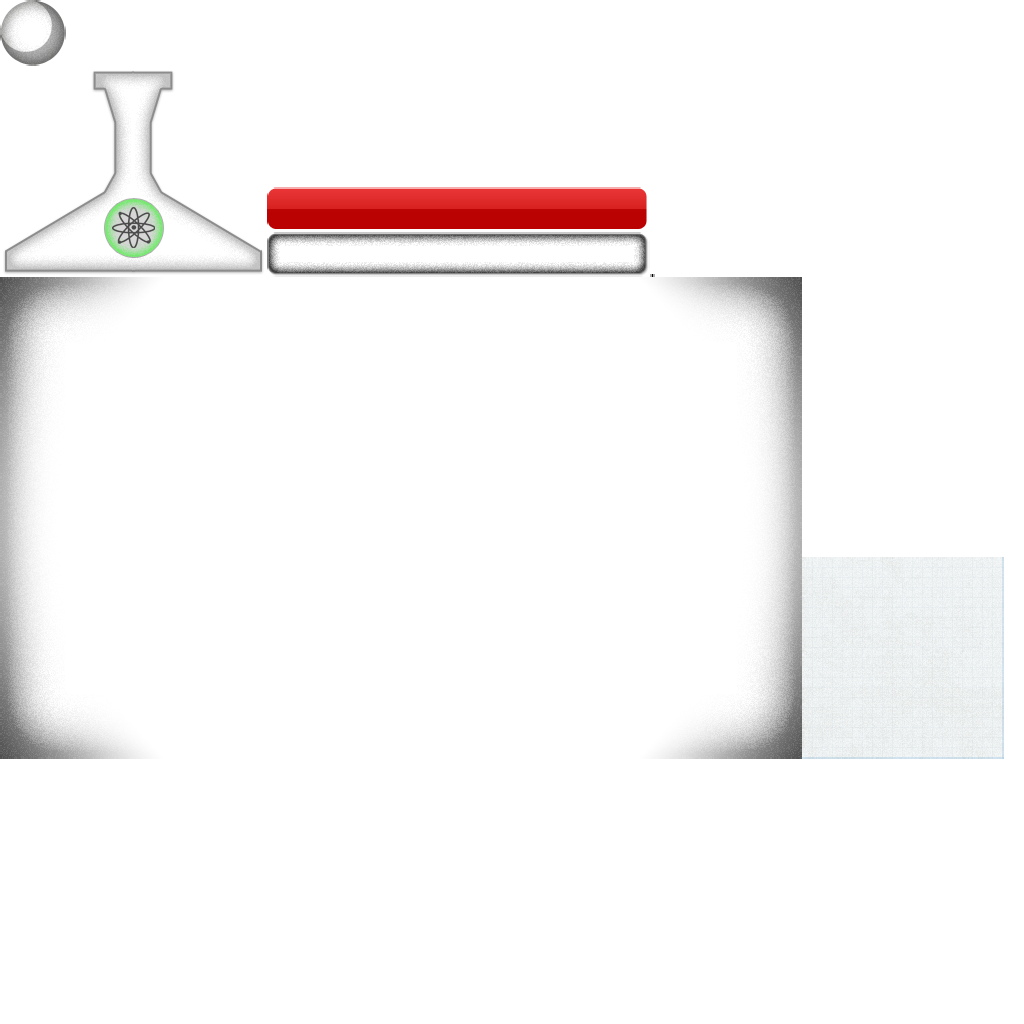
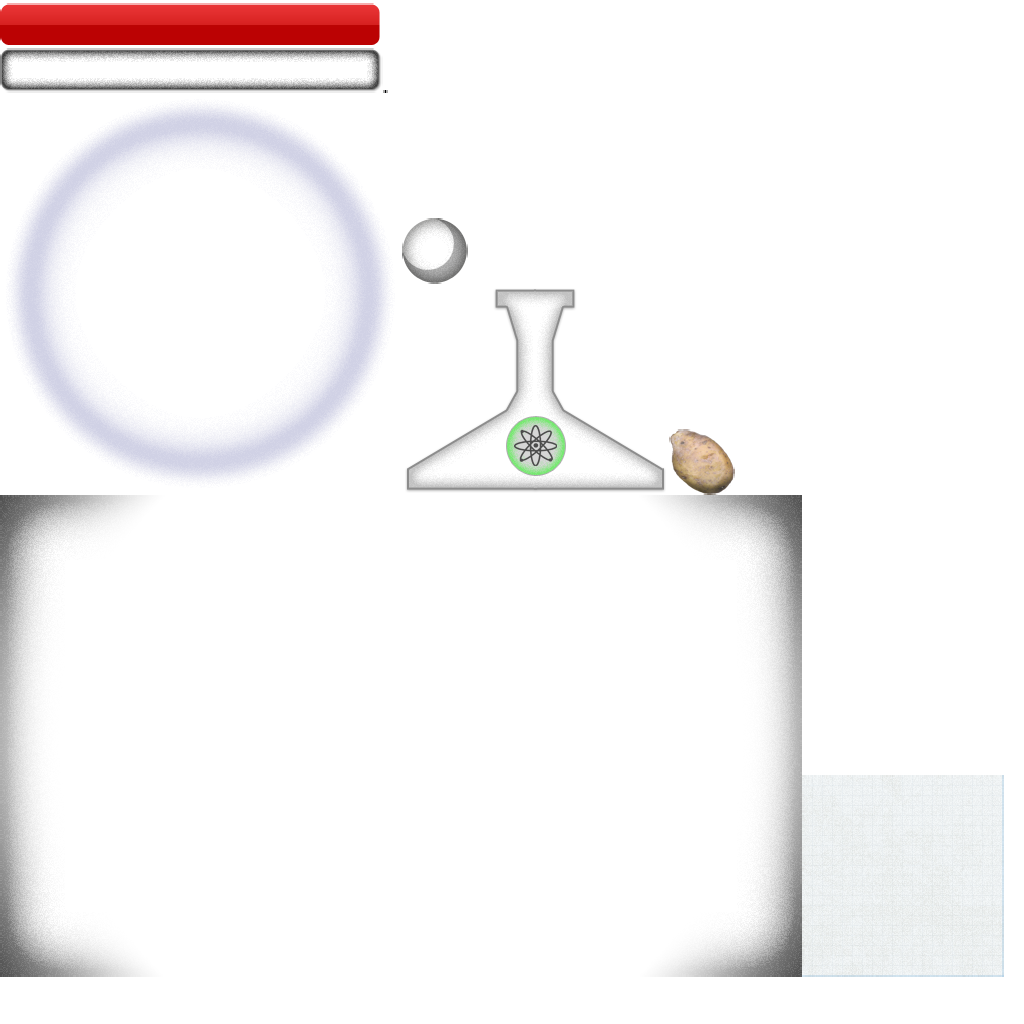
potato; more tweaks; actually cleaned some of the code

Changed region(s): [[0.0, 0.0, 1.0, 0.9688], [0.0, 0.625, 0.125, 0.9688]]

diff --git a/Eggs/src/com/siegedog/eggs/screens/Title1951.java b/Eggs/src/com/siegedog/eggs/screens/Title1951.java
@@ -3,6 +3,7 @@ package com.siegedog.eggs.screens;
 import com.badlogic.gdx.Application.ApplicationType;
 import com.badlogic.gdx.Gdx;
 import com.badlogic.gdx.graphics.Camera;
+import com.badlogic.gdx.graphics.Color;
 import com.badlogic.gdx.graphics.g2d.BitmapFont;
 import com.badlogic.gdx.graphics.g2d.BitmapFont.HAlignment;
 import com.badlogic.gdx.math.Interpolation;
@@ -10,6 +11,7 @@ import com.badlogic.gdx.math.Vector2;
 import com.badlogic.gdx.scenes.scene2d.Action;
 import com.badlogic.gdx.scenes.scene2d.Actor;
 import com.badlogic.gdx.scenes.scene2d.actions.Actions;
+import com.siegedog.eggs.AnimatedSprite;
 import com.siegedog.eggs.EggGame;
 import com.siegedog.eggs.GameInputHandler;
 import com.siegedog.eggs.LevelData;
@@ -23,7 +25,6 @@ import com.siegedog.eggs.entities.TutorialMessage;
 import com.siegedog.eggs.math.Segment;
 import com.siegedog.eggs.physics.AABB;
 import com.siegedog.eggs.physics.PointShape;
-import com.sun.org.apache.bcel.internal.generic.FADD;
 
 
 public class Title1951 extends GameScreen {
@@ -43,6 +44,7 @@ public class Title1951 extends GameScreen {
 	String timeLabel = (Gdx.app.getType() == ApplicationType.Android) ? "T" : "Time";
 	
 	Dude grain;
+	Dude flash;
 	Bar instabar;
 	
 	BitmapFont splashFont = EggGame.R.font("motorwerk128");
@@ -66,8 +68,10 @@ public class Title1951 extends GameScreen {
 	FLabel beatGameMessage;
 	FLabel beatGameStats;
 	
+	FLabel goal;
+	
 	public int instability;
-	public int currentLevel = 0;
+	public int currentLevel = 2;
 	public float timeLeft;
 	public LevelData levelData;
 	
@@ -133,7 +137,18 @@ public class Title1951 extends GameScreen {
 	public void loseLevel() {
 		state = State.EndingLevel;
 		hideTutorials();
-		stage.addAction(Actions.delay(1.0f, new Action() {
+		
+		flash.setX(cornerLeftX());
+		flash.setY(cornerLeftY());
+		flash.setVisible(true);
+		flash.getColor().a = 0.0f;
+		flash.addAction(Actions.sequence(
+				Actions.fadeIn(0.15f),
+				Actions.delay(1.50f),
+				Actions.fadeOut(3.0f),
+				Actions.hide()
+				));
+		stage.addAction(Actions.delay(0.5f, new Action() {
 			public boolean act(float delta) {
 				// TODO: make screen go white like an explosion
 				showRetry();
@@ -183,10 +198,10 @@ public class Title1951 extends GameScreen {
 	public void showRetry() {
 		state = State.GameOver;
 		continueEnabled = false;
-		Camera cam = stage.getCamera();
-		float sry = cornerLeftY() + 40.0f;
-		loseMessage.setPosition(cornerLeftX(), sry);
-		loseMessage.addAction(Actions.moveTo(cam.position.x - cam.viewportWidth / 2.0f, sry, 1.0f, Interpolation.exp10In));
+		
+		float sry = topY() - 40.0f;
+		loseMessage.setPosition(cornerLeftX() - Gdx.graphics.getWidth(), sry);
+		loseMessage.addAction(Actions.moveTo(cornerLeftX(), sry, 1.0f, Interpolation.exp10In));
 		
 		continueLabel.message = action + " to retry";
 		prepareContinueLabel();
@@ -233,7 +248,7 @@ public class Title1951 extends GameScreen {
 	public void hideRetry() {
 		continueEnabled = false;
 		Camera cam = stage.getCamera();
-		float sry = 100 + cam.position.y + cam.viewportHeight / 2.0f;
+		float sry = topY() - 40.0f;
 		loseMessage.addAction(Actions.moveTo(cam.position.x - Gdx.graphics.getWidth() * 1.5f, sry, 1.0f, Interpolation.exp10In));
 		continueLabel.addAction(Actions.sequence(
 				Actions.fadeOut(1.0f, Interpolation.exp10),
@@ -274,7 +289,7 @@ public class Title1951 extends GameScreen {
 	public void showTitle() {
 		continueEnabled = false;
 		
-		splash.setPosition(cornerLeftX(), topY() + 150f);
+		splash.setPosition(cornerLeftX(), topY() + 250f);
 		splash.setVisible(true);
 		splash.addAction(Actions.moveTo(cornerLeftX(), topY() - 10.0f, 1.0f, Interpolation.exp10));
 		
@@ -361,13 +376,23 @@ public class Title1951 extends GameScreen {
 		x1 = 800;
 		y1 = 480;
 		
+		addDude("effects", flash = new Dude(EggGame.R.spriteAsAnimatedSprite("pixel"),
+				new AABB(0, 0, Gdx.graphics.getWidth(), Gdx.graphics.getHeight())));
+		flash.stretchSprite = true;
+		flash.setVisible(false);
+		
 		addDude("effects", grain = new Dude(EggGame.R.spriteAsAnimatedSprite("grain"),
 				new AABB(0, 0, Gdx.graphics.getWidth(), Gdx.graphics.getHeight())));
 		grain.stretchSprite = true;
 		
+		
+		
 		instabar = new Bar(EggGame.R.sprite("instabar"), EggGame.R.sprite("instabarFill"), new Vector2());
 		addDude("overlay", instabar);
-
+		
+		goal = new FLabel("", guiFont, new Vector2());
+		addDude("overlay", goal);
+		
 		logo = new Dude(EggGame.R.spriteAsAnimatedSprite("logo"), new PointShape(0, 0));
 		addDude("overlay", logo);
 		
@@ -446,7 +471,10 @@ public class Title1951 extends GameScreen {
 						
 			timeIndicator.setVisible(true);
 			timeIndicator.message = String.format("%s: %.0f''", timeLabel, timeLeft);
-			timeIndicator.setPosition(cornerLeftX() - 20, cornerLeftY() + 39);			
+			if(timeLeft < 10) {
+				timeIndicator.setColor(Color.RED);
+			}
+			timeIndicator.setPosition(cornerLeftX() - 20, cornerLeftY() + 43);			
 			
 			instabilityIndicator.setVisible(true);
 			instabilityIndicator.message = "Instability: " + instability + " / " + levelData.meltdownThreshold;
@@ -455,6 +483,10 @@ public class Title1951 extends GameScreen {
 			instabar.setVisible(true);
 			instabar.percent = instability / (float)levelData.meltdownThreshold;
 			instabar.setPosition(cornerLeftX() + instabar.getWidth() / 2.0f + 8, cornerLeftY() + 32);
+			
+			goal.setVisible(true);
+			goal.message = "Goal: " + levelData.winCondition + " " + derpPlur("particle", levelData.winCondition) + ".";
+			goal.setPosition(cornerLeftX() + 8, topY() - 16);
 			
 			if(instability >= levelData.meltdownThreshold || timeLeft <= 0) {
 				loseLevel();
@@ -465,13 +497,17 @@ public class Title1951 extends GameScreen {
 			timeIndicator.setVisible(false);
 			instabilityIndicator.setVisible(false);
 			instabar.setVisible(false);
+			goal.setVisible(false);
 		}
 	
 		super.render(delta);
 		layers.get("rays").clear();
 	}
 	
+	/** The hackyness is strong in this one */
 	public void createPulse(float x, float y) {
+		if(currentLevel < 3) return;
+		
 		final float PULSERADIUS = 300;
 		final float PR2 = PULSERADIUS * PULSERADIUS;
 		final float PULSEFORCE_MIN = 25;
@@ -486,7 +522,23 @@ public class Title1951 extends GameScreen {
 					dir.nor();
 					dir.mul(power);
 					Bouncie b = (Bouncie)actor;
-					b.physics.velocity.add(dir.x, dir.y);
+					b.applyPulse(dir.x, dir.y);
+					AnimatedSprite pspr = EggGame.R.spriteAsAnimatedSprite("pulse");
+					final Dude pulseGfx = new Dude(pspr, new AABB(x - PULSERADIUS / 2.0f, y - PULSERADIUS / 2.0f, PULSERADIUS, PULSERADIUS));
+					pulseGfx.setScale(0.0f);
+					pulseGfx.stretchSprite = true;
+					//pulseGfx.setOrigin(pspr.getWidth() / 2.0f, pspr.getHeight() / 2.0f);
+					pulseGfx.setOrigin(PULSERADIUS / 2.0f, PULSERADIUS / 2.0f);
+					pulseGfx.addAction(Actions.sequence(
+							Actions.scaleTo(1.0f, 1.0f, 0.20f),
+							Actions.fadeOut(0.55f),
+							new Action() {
+								public boolean act(float delta) {
+									pulseGfx.kill();
+									return true;
+								}
+							}));
+					addDude("main", pulseGfx);
 				}
 			}
 		}
@@ -510,5 +562,9 @@ public class Title1951 extends GameScreen {
 	private float topY() {
 		Camera cam = stage.getCamera();
 		return cam.position.y + cam.viewportHeight / 2.0f; 
+	}
+	
+	private String derpPlur(String word, int nr) {
+		return nr == 1 ? word : word + "s";
 	}
 }

diff --git a/Eggs/src/com/siegedog/eggs/Levels.java b/Eggs/src/com/siegedog/eggs/Levels.java
@@ -14,14 +14,19 @@ public class Levels {
 	public static ArrayList<LevelData> levels = new ArrayList<LevelData>();
 	static {
 		int w = Gdx.graphics.getWidth();
-		String action = (Gdx.app.getType() == ApplicationType.Android) ? "tap" : "click";
-		BitmapFont fnt = (Gdx.app.getType() == ApplicationType.Android) ? EggGame.R.font("motorwerk16") : EggGame.R.font("motorwerk24");
+		String action = (Gdx.app.getType() == ApplicationType.Android)
+				? "tap" 
+				: "click";
+		
+		BitmapFont fnt = (Gdx.app.getType() == ApplicationType.Android) 
+				? EggGame.R.font("motorwerk24") 
+				: EggGame.R.font("motorwerk24");
 		
 		LevelData l;
 		l = new LevelData(1, 1, 100, 0, 90.0f 
-				,new TutorialMessage("Swipe to fuse the particles!", fnt, new Vector2(0, 320), 0, w)
+				,new TutorialMessage("Swipe FROM one particle\nTO the other to fuse them!", fnt, new Vector2(0, 320), 0, w)
 		);
-		l.add(new MainParticle(new Vector2(Gdx.graphics.getWidth() / 2.0f - 100, 200), new Vector2(40.0f, -10.0f), 32));
+		l.add(new MainParticle(new Vector2(Gdx.graphics.getWidth() / 2.0f - 100, 200), new Vector2(25.0f, -10.0f), 32));
 		l.add(new MainParticle(new Vector2(Gdx.graphics.getWidth() / 2.0f + 100, 200), new Vector2(-5.0f, -8.0f), 32));
 		levels.add(l);
 		
@@ -35,7 +40,7 @@ public class Levels {
 		levels.add(l);
 		
 		l = new LevelData(2, 2, 100, 30, 90.0f,
-				new TutorialMessage("Double " + action + " a free space to nudge nearby particles.",
+				new TutorialMessage("Double " + action + " a FREE SPACE to nudge nearby particles.",
 						fnt, new Vector2(w * 0.125f, 200), -1, ww));
 		l.add(new MainParticle(new Vector2(60, 90), randDir(50.0f), 15));
 		l.add(new MainParticle(new Vector2(100, 100), randDir(50.0f), 13));

diff --git a/Eggs/src/com/siegedog/eggs/entities/Bouncie.java b/Eggs/src/com/siegedog/eggs/entities/Bouncie.java
@@ -2,11 +2,13 @@ package com.siegedog.eggs.entities;
 
 import java.util.ArrayList;
 
+import com.badlogic.gdx.math.MathUtils;
 import com.badlogic.gdx.math.Vector2;
 import com.badlogic.gdx.scenes.scene2d.Action;
 import com.badlogic.gdx.scenes.scene2d.Touchable;
 import com.badlogic.gdx.scenes.scene2d.actions.Actions;
 import com.siegedog.eggs.AnimatedSprite;
+import com.siegedog.eggs.EggGame;
 import com.siegedog.eggs.physics.Circle;
 import com.siegedog.eggs.physics.PhysicsNode;
 
@@ -21,6 +23,7 @@ public abstract class Bouncie extends Dude {
 		Merging		// When about to fuse with another particle
 	}
 	public PState state;
+	protected boolean potato = false;
 	
 	static public final float NEIGHBOR_ANGLE_THRESHOLD = 20.0f;
 	static public final float NORMAL_SPEED2 = 50.0f * 50.0f;
@@ -70,6 +73,15 @@ public abstract class Bouncie extends Dude {
 			})));
 	}
 	
+	public void applyPulse(float x, float y) {
+		physics.velocity.add(x, y);
+		if(MathUtils.random(100) == 42) {
+			potato = true;
+			sprite = new AnimatedSprite(EggGame.R.spriteAsAnimatedSprite("potato"));
+			setOrigin(sprite.getWidth() / 2.0f, sprite.getHeight() / 2.0f);
+		}
+	}
+	
 	private void startInteracting() {
 		state = PState.Normal;
 		
@@ -110,6 +122,10 @@ public abstract class Bouncie extends Dude {
 		if(isDead()) {
 			// Thank you libgdx for allowing such flexible actor management... </sarcasm>
 			return;
+		}
+		
+		if(potato) {
+			setRotation(getRotation() + physics.velocity.len() / 2.0f * delta);
 		}
 		
 		switch(state) {

diff --git a/Eggs/src/com/siegedog/eggs/entities/MainParticle.java b/Eggs/src/com/siegedog/eggs/entities/MainParticle.java
@@ -47,8 +47,12 @@ public class MainParticle extends Bouncie {
 	
 	@Override
 	public void draw(SpriteBatch batch, float parentAlpha) {
-		Color tint = new Color((value * 2) / 255.0f, 0.0f, 0.0f, getColor().a);
-		setColor(tint);
+		if(potato) {
+			setColor(Color.WHITE.cpy());
+		} else {
+			Color tint = new Color((value * 2) / 255.0f, 0.0f, 0.0f, getColor().a);
+			setColor(tint);
+		}
 		super.draw(batch, parentAlpha);
 		
 		valueFont.setColor(Color.WHITE);		

diff --git a/Eggs/src/com/siegedog/eggs/entities/Ray.java b/Eggs/src/com/siegedog/eggs/entities/Ray.java
@@ -24,9 +24,8 @@ public class Ray extends Dude {
 		setScaleY(sl);
 		setScaleX(1.0f);
 		setOrigin(0.0f, 0.0f);
-		setX(Math.min(s.start.x, s.end.x) +  Math.abs(s.start.x - s.end.x) / 2.0f);
-		setY(s.start.y +  (-s.start.y + s.end.y) / 2.0f);
-		sprite.setScale(getScaleX(), getScaleY());
+		setX(s.end.x);
+		setY(s.end.y);
 		
 		super.act(delta);
 	}

diff --git a/Eggs/src/com/siegedog/eggs/entities/Dude.java b/Eggs/src/com/siegedog/eggs/entities/Dude.java
@@ -105,7 +105,9 @@ public class Dude extends Actor {
 				sprite.setPosition(getX(), getY());
 			}
 			sprite.setColor(getColor());
+			sprite.setScale(getScaleX(), getScaleY());
 			sprite.setRotation(getRotation());
+			sprite.setOrigin(getOriginX(), getOriginY());
 			sprite.draw(batch);
 		}
 	}
